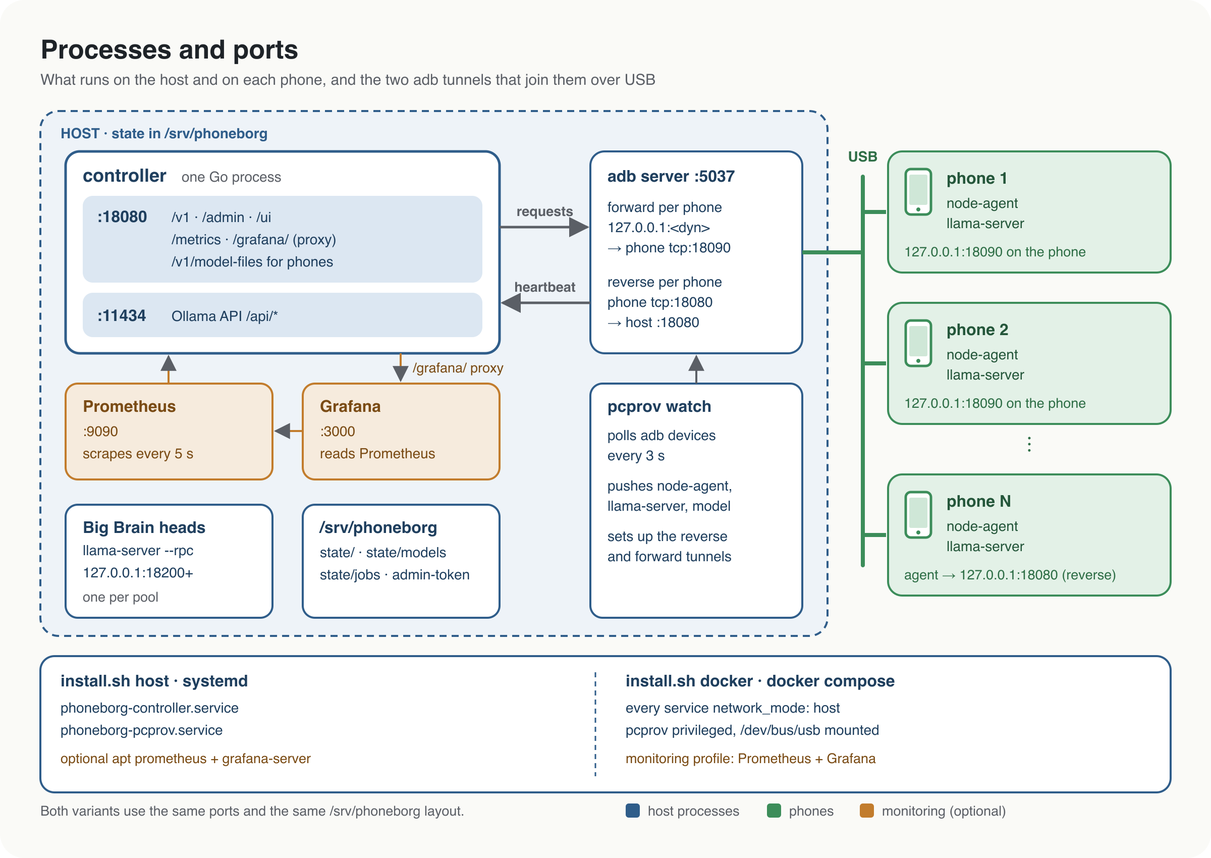
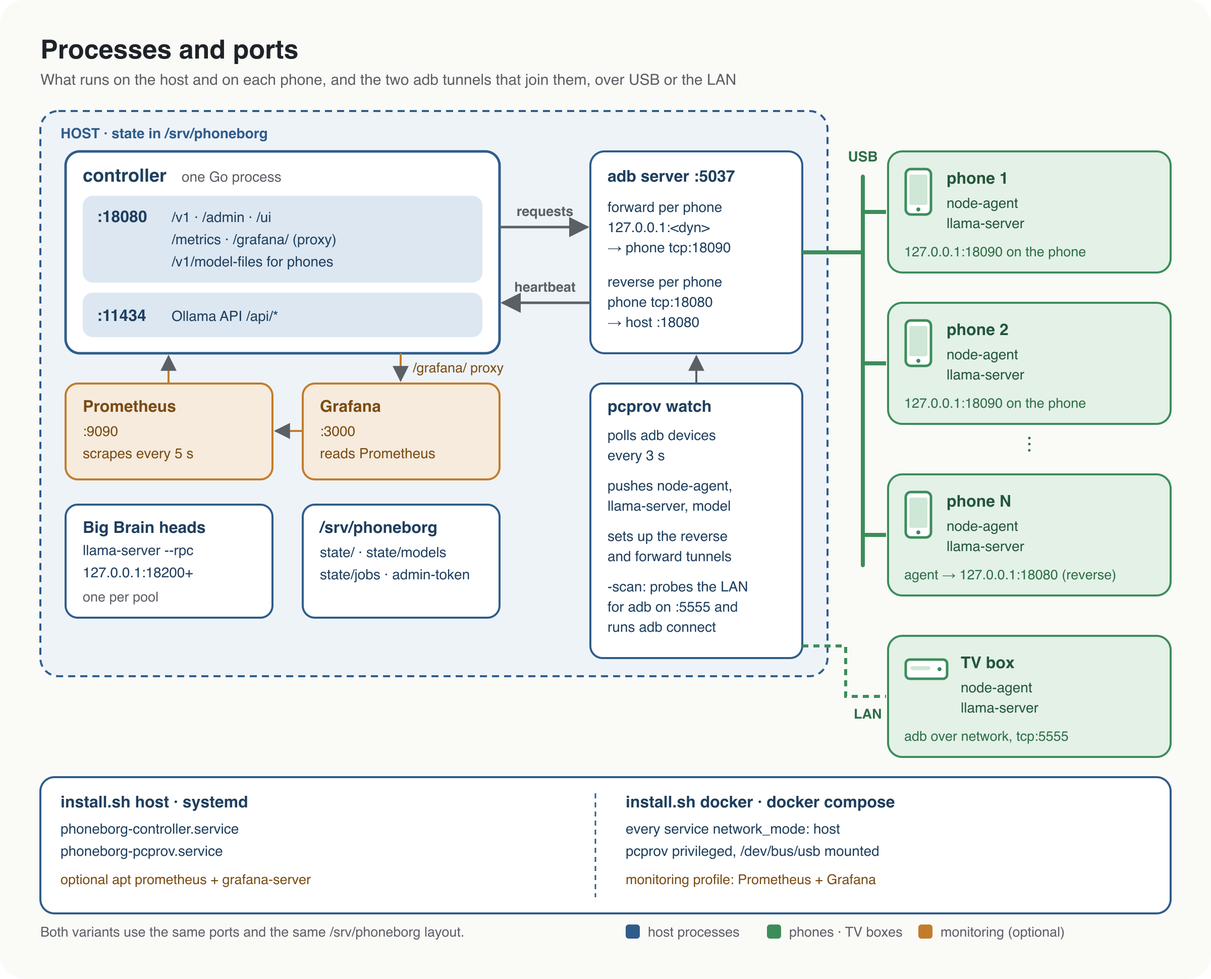
Show TV boxes across the docs and diagrams
The collective now assimilates Android TV boxes over network adb, so the
docs no longer describe the fleet as USB phones only: README tagline and
overview, quick start, install, operations, the pbctl guide (new "Add an
Android TV box" task), concepts, architecture and real phones. The
banner, the overview and the host topology diagrams draw a TV box on a
network adb link, and the banner keeps a kitchen appliance under scan.

Claude-Session: https://claude.ai/code/session_01QJ5f2HKXepcrZ86WRP4Xc4

diff --git a/docs/OPERATIONS.md b/docs/OPERATIONS.md
@@ -64,7 +64,7 @@ To add phones, see [REAL_PHONES.md](REAL_PHONES.md); for emulated phones,
 
 *Start the controller, connect phones and decide who may use the gateway.*
 
-[![Host topology: the controller on :18080 serves /v1, /admin, /ui, /metrics and /grafana/, plus :11434 for the Ollama API; the adb server on :5037 keeps a forward per phone to tcp:18090 and a reverse to :18080; pcprov watch, Prometheus :9090, Grafana :3000 and Big Brain heads on 127.0.0.1:18200+ run next to it, with state in /srv/phoneborg; each phone runs node-agent and llama-server; systemd and docker variants](../assets/diagrams/host-topology.png)](../assets/diagrams/src/host-topology.svg)
+[![Host topology: the controller on :18080 serves /v1, /admin, /ui, /metrics and /grafana/, plus :11434 for the Ollama API; the adb server on :5037 keeps a forward per phone to tcp:18090 and a reverse to :18080; pcprov watch (USB polling plus -scan of the LAN for adb on :5555), Prometheus :9090, Grafana :3000 and Big Brain heads on 127.0.0.1:18200+ run next to it, with state in /srv/phoneborg; each phone, and each TV box reached over the LAN via network adb on tcp:5555, runs node-agent and llama-server; systemd and docker variants](../assets/diagrams/host-topology.png)](../assets/diagrams/src/host-topology.svg)
 
 ## Endpoints
 
@@ -175,7 +175,7 @@ an explicit retry resets it. Only one `pcprov watch`/`provision` may drive a
 given adb server at a time; a second instance exits naming the first one's
 PID.
 
-**Devices** — USB devices pcprov sees, with their provisioning state.
+**Devices** — USB devices and network-adb TV boxes pcprov sees, with their provisioning state.
 
 ![Devices: USB devices seen by pcprov and their provisioning state.](images/panel-devices.png)
 
@@ -1331,9 +1331,11 @@ not skew the numbers) and its model is forced with a benchmark override
 done, or the run is cancelled, the override goes and the phone gets its
 placement and drain state back; a controller restart drops a running run
 (marked `cancelled`) and leaves the phones normal. One run at a time. A
-model whose resident size exceeds the phone's RAM budget, or whose class
-does not fit, is not tried. Runs are stored in `<state-dir>/mmb/`. Expect
-minutes per model: the first load downloads the model to the phone.
+model whose resident size exceeds the node's memory budget is not tried;
+only a node that has not reported a budget yet is checked by class. A TV box
+on network adb is benchmarked the same way (`pbctl mmb run nodes=shield`).
+Runs are stored in `<state-dir>/mmb/`. Expect minutes per model: the first
+load downloads the model to the phone.
 
 ---
 
@@ -1353,7 +1355,7 @@ use it on localhost or a trusted network.
 |---|---|
 | Overview | Nodes by state; ready, drained and hot nodes; requests/s and tokens/s (last 30 s, computed in the browser); errors; models served; placement warnings; a **Virtual models** card listing `/v1/models` by kind (`auto`, `pool/<name>` with eligible node counts, `node/<alias>` with served model and readiness), each with a copy button for its `phoneborg/<id>` reference. |
 | Nodes | Every node with device, class/tier, state (DRAINED and HOT badges), model and build, threads, context, measured tok/s, RAM, temperature, battery, in-flight requests, pinned sessions and last heartbeat. Aliases are shown in place of ids. **Set alias**/**Edit alias**; drain, undrain and forget (with confirmation). Select a node for its inventory and runtime details. |
-| Devices | USB devices `pcprov watch` sees over adb, including ones that are not (yet) nodes: status badges (`new`, `waiting-authorization`, `provisioning` with step, `provisioned`, `failed` with error and hint, `gone`), the node it became (if any), and which host reported it (with a "not reporting" badge once that pcprov has gone quiet). An **auto-provision** toggle and per-device **Provision**/**Retry** buttons (ADR-019). Empty until a `pcprov watch` reports (see [USB device detection and provisioning](#usb-device-detection-and-provisioning)). |
+| Devices | USB devices and network-adb TV boxes (serial `<ip>:5555`) `pcprov watch` sees over adb, including ones that are not (yet) nodes: status badges (`new`, `waiting-authorization`, `provisioning` with step, `provisioned`, `failed` with error and hint, `gone`), the node it became (if any), and which host reported it (with a "not reporting" badge once that pcprov has gone quiet). An **auto-provision** toggle and per-device **Provision**/**Retry** buttons (ADR-019). Empty until a `pcprov watch` reports (see [USB device detection and provisioning](#usb-device-detection-and-provisioning)). |
 | Models | The catalog: download status, size, estimated RAM, fitting classes, tags. Add from `https://…`, `hf://owner/repo/file.gguf` or `file:///path`; edit tags, recommended classes/tiers and the default flag; delete (the reason is shown if refused). |
 | Placement | Device classes and tiers; policies per model (pin, replicas, or percent with a live node count; optional classes and min tok/s); the default model. **Preview** shows which nodes would change, with RAM estimates, predicted tok/s and warnings; **Apply** is enabled only after a preview of the current edits. The plan table shows current and target model and download progress. |
 | Pools | Pools routed as `pool/<name>`, each with a status badge (ready · N nodes, no ready node with the reason, disabled) and **Enable/Disable**: description, routing (`spread`/`affinity`), filters and a members table with eligibility and reason. Add, edit, delete; **Prewarm** sends an optional system prompt to every eligible node and shows per-node results. |
@@ -1728,12 +1730,12 @@ bin/pbctl nodes
 
 | Command | What |
 |---|---|
-| `pbctl nodes` | nodes: `KIND` (`phone` or `external`), state (with `DRAINED`/`HOT`), class/tier (e.g. `m/t2`), runtime, `TOK/S` (self-test), in-flight. `-json` prints `/admin/nodes` (phones only) |
+| `pbctl nodes` | nodes: `KIND` (`phone` or `external`; an Android TV box also shows as `phone`), state (with `DRAINED`/`HOT`), class/tier (e.g. `m/t2`), runtime, `TOK/S` (self-test), in-flight. `-json` prints `/admin/nodes` (phones only) |
 | `pbctl nodes alias <id> <alias>` | set an alias, addressed as `node/<alias>`; `-` clears |
 | `pbctl drain <id>` | no new requests; running ones finish (`ext:<name>` for an external node) |
 | `pbctl undrain <id>` | back into rotation |
 | `pbctl forget <id>` | remove a node (it re-registers if still running) |
-| `pbctl devices` | USB devices `pcprov watch` reports: adb state, status (with step/error/hint), linked node, reporting host (ADR-019) |
+| `pbctl devices` | USB devices and network-adb TV boxes (serial `<ip>:5555`) `pcprov watch` reports: adb state, status (with step/error/hint), linked node, reporting host (ADR-019) |
 | `pbctl devices auto on\|off` | turn automatic provisioning of newly detected devices on or off |
 | `pbctl devices provision <serial>` | request a one-shot provision/retry for one device |
 

diff --git a/docs/PBCTL.md b/docs/PBCTL.md
@@ -14,6 +14,7 @@ the same one the web panel uses. What each feature does is explained in
 - [Daily cheat sheet](#daily-cheat-sheet)
 - [Guides](#guides)
   - [Check the cluster and name the phones](#check-the-cluster-and-name-the-phones)
+  - [Add an Android TV box](#add-an-android-tv-box)
   - [Add a model and put it on phones](#add-a-model-and-put-it-on-phones)
   - [A pool for parallel agents](#a-pool-for-parallel-agents)
   - [One answer from many phones, and long jobs](#one-answer-from-many-phones-and-long-jobs)
@@ -69,7 +70,7 @@ Global flags: `-json` (raw JSON, for scripts and `jq`), `-url URL`,
 | Task | Command |
 |---|---|
 | Is the collective healthy? | `pbctl nodes` |
-| Phones waiting to be assimilated (USB, not yet authorized, failed) | `pbctl devices` |
+| Phones and TV boxes waiting to be assimilated (USB or network adb, not yet authorized, failed) | `pbctl devices` |
 | What can clients call? | `pbctl served` |
 | Usage and cluster summary | `pbctl stats` |
 | Take a phone out for maintenance | `pbctl drain <id>` … `pbctl undrain <id>` |
@@ -88,7 +89,7 @@ it worked. Aliases like `pixel` or `mi8` are examples: use your own.
 
 ```sh
 pbctl nodes                         # every phone: STATE should be ACTIVE, RUNTIME ready
-pbctl devices                       # a phone missing above? see if it waits for "Allow"
+pbctl devices                       # a phone missing above? see if it waits for "Allow" (a TV box: "Allow network debugging")
 pbctl nodes alias <pixel-id> pixel   # <id> is the NODE column of pbctl nodes
 pbctl nodes alias <mi8-id> mi8       # from now on: node/pixel, node/mi8
 ```
@@ -97,6 +98,37 @@ pbctl nodes alias <mi8-id> mi8       # from now on: node/pixel, node/mi8
 `curl -s 127.0.0.1:18080/v1/models | jq '.data[].id'` lists `node/pixel`.
 A phone stuck in `BENCHMARKING` for more than a minute: see
 [REAL_PHONES.md](REAL_PHONES.md#troubleshooting).
+
+### Add an Android TV box
+
+A TV box has no USB device port, so it joins over network adb. On the box,
+turn on developer options and network debugging (the menu names vary by
+box), and keep it on the boxes' own VLAN. Then, on the host that runs
+`pcprov watch`, scan that network: add `-scan` to the `pcprov watch` that
+already runs, or start one with it:
+
+```sh
+pcprov watch -model models/qwen2.5-0.5b-instruct-q4_k_m.gguf \
+  -scan 192.168.50.0/24 \
+  -controller-url http://127.0.0.1:18080 -admin-token-file admin-token
+```
+
+Every `-scan-interval` (2 min) pcprov probes the range and connects to boxes
+with adb open. The box asks "Allow network debugging": accept it with the
+remote. Then:
+
+```sh
+pbctl devices                              # the box as <ip>:5555: unauthorized, then provisioning
+pbctl nodes                                # ACTIVE once provisioned (about 30 s on a Shield)
+pbctl nodes alias <id> shield              # <id> is the NODE column, not the serial
+pbctl mmb run nodes=shield                 # then: pbctl mmb show <id>
+```
+
+**Check:** `pbctl nodes` shows the `shield` alias, and `pbctl mmb show <id>`
+lists the models that fit its memory. Network adb is unencrypted and any
+host in the scanned range with adb open gets connected, so keep the boxes on
+their own VLAN. Details, and the boxes' measured numbers:
+[TV boxes: network discovery](TVBOXES.md#network-discovery).
 
 ### Add a model and put it on phones
 
@@ -225,12 +257,12 @@ Every command, grouped as in `pbctl -h`.
 
 | Command | What |
 |---|---|
-| `pbctl nodes` | nodes, phones and external: state, drain, runtime, model, tok/s, in-flight, last seen |
+| `pbctl nodes` | nodes, phones, TV boxes and external: state, drain, runtime, model, tok/s, in-flight, last seen |
 | `pbctl nodes alias <id> <alias>` | name a node, addressed as `node/<alias>` (`-` clears) |
 | `pbctl drain <id>` | no new requests to the node; requests already running finish |
 | `pbctl undrain <id>` | put a drained node back into rotation |
 | `pbctl forget <id>` | remove a node (it re-registers on its next heartbeat if alive) |
-| `pbctl devices` | USB devices pcprov sees: not yet authorized, provisioning, failed |
+| `pbctl devices` | USB devices and network-adb TV boxes (`<ip>:5555`) pcprov sees: not yet authorized, provisioning, failed |
 | `pbctl devices auto on\|off` | automatic provisioning of new devices on or off |
 | `pbctl devices provision <serial>` | one-shot "provision now" / "retry" for one device |
 | `pbctl classes` | device classes (by RAM) and performance tiers (by GB/s) with node counts |

diff --git a/README.md b/README.md
@@ -1,5 +1,5 @@
 <p align="center">
-  <img src="assets/diagrams/wordmark.png" alt="PhoneBorg banner: 'Resistance is futile. Your Android will be assimilated.' Four phones with the collective's grid on their screens and a fifth still being assimilated hang on a USB bus into a cube labelled the collective: host, one endpoint" width="820">
+  <img src="assets/diagrams/wordmark.png" alt="PhoneBorg banner: 'Resistance is futile. Your Android will be assimilated.' Four phones with the collective's grid on their screens and a fifth still being assimilated hang on a USB bus into a cube labelled the collective: host, one endpoint. A TV box joins the cube over a dashed 'network adb' line, and a faint kitchen appliance in the far corner is marked 'scanning…'" width="820">
 </p>
 
 <p align="center">
@@ -14,22 +14,23 @@
   <img src="assets/demo.gif" alt="Terminal demo: pbctl nodes lists five ACTIVE phones with their models and tok/s, a streaming chat completion is answered by one phone, and pbctl pools lists spread, affinity, Super Borg and Big Brain pools" width="820">
 </p>
 
-**Turn a drawer full of old Android phones into an AI inference cluster.**
+**Turn a drawer full of old Android phones and TV boxes into an AI inference cluster.**
 
 > *We are PhoneBorg. Your phones will be added to the collective. Their
 > tokens will be added to our own.*
 
 ## Overview
 
-Plug phones into a Linux or macOS host over USB. PhoneBorg installs a small
-node agent on each phone over adb; the phone benchmarks itself, joins the
+Plug phones into a Linux or macOS host over USB. Android TV boxes, which have
+no USB device port, join over network adb ([A new era: TV boxes](#a-new-era-tv-boxes)).
+PhoneBorg installs a small node agent on each phone over adb; the phone benchmarks itself, joins the
 cluster and serves a GGUF model with
 [llama.cpp](https://github.com/ggml-org/llama.cpp). Clients talk to **one
 OpenAI-compatible endpoint**. The controller decides which phone serves which
 model, routes each request to a phone, fails over when one freezes, and
 exports everything to Prometheus and Grafana.
 
-[![PhoneBorg at a glance: API clients and operators call the controller on :18080 (and Ollama apps on :11434). The controller is one Go process with the gateway, registry, catalog and placement, admin API and web panel, Big Brain head and /metrics. pcprov watches USB and provisions phones through the adb server. Requests reach each phone's llama-server through adb forward to :18090; phones register, heartbeat and download models through adb reverse :18080. Prometheus scrapes /metrics every 5 s and Grafana shows three dashboards.](assets/diagrams/overview-pipeline.png)](assets/diagrams/src/overview-pipeline.svg)
+[![PhoneBorg at a glance: API clients and operators call the controller on :18080 (and Ollama apps on :11434). The controller is one Go process with the gateway, registry, catalog and placement, admin API and web panel, Big Brain head and /metrics. pcprov watches USB hot-plug and scans the LAN (pcprov -scan), and provisions phones and TV boxes through the adb server. Requests reach each phone's llama-server through adb forward to :18090; phones register, heartbeat and download models through adb reverse :18080. TV boxes join over network adb on LAN :5555. Prometheus scrapes /metrics every 5 s and Grafana shows three dashboards.](assets/diagrams/overview-pipeline.png)](assets/diagrams/src/overview-pipeline.svg)
 
 > **Status: proof of concept.** It runs end to end on a production cluster of
 > five phones and on emulated phones. APIs, metrics and file layout will
@@ -43,6 +44,7 @@ exports everything to Prometheus and Grafana.
 - [Pools and Super Borg](#pools-and-super-borg)
 - [Jobs and agents](#jobs-and-agents)
 - [Big Brain](#big-brain)
+- [A new era: TV boxes](#a-new-era-tv-boxes)
 - [Model benchmark (MMB)](#model-benchmark-mmb)
 - [Platform features](#platform-features)
 - [Quick start](#quick-start)
@@ -241,6 +243,8 @@ llama.cpp and a first model over USB. Details:
 [INSTALL.md](docs/INSTALL.md#installer). Step by step instead:
 [QUICKSTART.md](docs/QUICKSTART.md) (a test cluster with one or two phones)
 or [INSTALL.md](docs/INSTALL.md) (a permanent install as services).
+A TV box needs no USB: enable network debugging on it and see
+[docs/TVBOXES.md](docs/TVBOXES.md#network-discovery).
 
 Phones: ARM64 Android with 4 GB RAM or more; which phones and models fit:
 [REAL_PHONES.md](docs/REAL_PHONES.md). **Emulated phones** with Prometheus

diff --git a/docs/ARCHITECTURE.md b/docs/ARCHITECTURE.md
@@ -57,6 +57,11 @@ Everything the phones do goes over the USB cable: the agent talks to
 and the controller reaches each phone's llama-server through an `adb forward`
 on the host (ADR-003, ADR-006).
 
+Android TV boxes without a USB device port are nodes too, reached over network
+adb instead of the cable: the same agent and the same `adb reverse` /
+`adb forward` links run over a TCP connection (ADR-035, see
+[Provisioning over adb](#provisioning-over-adb)).
+
 ## Components
 
 ### Controller (`controller/`, binary `controller`)
@@ -142,6 +147,11 @@ sequenceDiagram
 loose cable, a hot phone) while it stays listed. `pcprov watch` restores them
 on the same host port the agent advertises; `pcprov heal -serial S` does it
 once.
+
+TV boxes on network adb (`<ip>:5555`, found by `pcprov watch -scan`, ADR-035)
+get the same steps. They are not on the USB hot-plug path, so the scanner
+connects them and the watch loop then provisions them; the box asks for
+"Allow network debugging" once, and its adb key must be accepted there.
 
 ## Node lifecycle
 
@@ -369,8 +379,8 @@ on the `controller-state` volume.
 | Port | Where | What |
 |---|---|---|
 | 18080 | host | controller: gateway `/v1`, admin `/admin`, `/ui/`, `/status`, `/metrics`, `/healthz` (`-listen`) |
-| 18080 | phone | `adb reverse` to the controller (`pcprov -controller-port`) |
-| 18090 | phone, 127.0.0.1 only | llama-server (`pcprov -serve-port`, agent `-serve-port`) |
+| 18080 | phone or TV box | `adb reverse` to the controller (`pcprov -controller-port`) |
+| 18090 | phone or TV box, 127.0.0.1 only | llama-server (`pcprov -serve-port`, agent `-serve-port`) |
 | ephemeral | host | `adb forward` to each phone's 18090, chosen by adb and reused on re-provisioning; the controller reaches it on `-backend-host` (default 127.0.0.1, `host.docker.internal` in compose) |
 | 18091 | phone | `tests/e2e/llm_smoke.sh` test server, so it does not disturb the agent |
 | 9090 | host | Prometheus (compose) |
@@ -470,12 +480,14 @@ for them with `read_doc`. Rationale: ADR-021.
 ## Production deployment
 
 The reference deployment is one Linux VM next to the phones; the phones
-reach it only over USB. [INSTALL.md](INSTALL.md) installs it step by step
-with the templates in `deploy/host/`.
+reach it only over USB, and TV boxes only over network adb on their own VLAN
+(ADR-035). [INSTALL.md](INSTALL.md) installs it step by step with the
+templates in `deploy/host/`.
 
 ```mermaid
 flowchart TB
   phones["phones"] -->|"USB"| hv["hypervisor<br>USB passthrough by host port, not by vendor:product id<br>(two phones of one vendor share 18d1:4ee7 and get mixed up)"]
+  boxes["TV boxes"] -->|"network adb, own VLAN"| pc
   hv --> pc
   subgraph vm["Linux VM (Debian): adb, a user with the phones' adb keys"]
     pc["phoneborg-pcprov.service (Requires= the controller)<br>pcprov watch -model state/models/qwen2.5-0.5b-….gguf<br>-agent-args '-ctx-size 16384' -admin-token-file …"]

diff --git a/docs/README.md b/docs/README.md
@@ -12,7 +12,7 @@ Start with the [project README](../README.md) for the pitch and quick start.
 | [REAL_PHONES.md](REAL_PHONES.md) | choosing phones, preparing them, adb checks, provisioning, verification, slim, model storage, files and logs on the phone, removal, phone-side troubleshooting, which model suits which phone |
 | [OPERATIONS.md](OPERATIONS.md) | controller flags, sending requests, web panel, full `pbctl` reference, models and placement, pools and aliases, API keys, draining, gateway settings, semantic router, usage, OpenCode bridge, Grafana, controller-side troubleshooting |
 | [PBCTL.md](PBCTL.md) | every `pbctl` command grouped by task, with examples and a daily cheat sheet |
-| [TVBOXES.md](TVBOXES.md) | working note: Android TV boxes as nodes, what to buy, the code changes needed (not yet tested) |
+| [TVBOXES.md](TVBOXES.md) | Android TV boxes as nodes over network adb: `pcprov watch -scan`, the measured NVIDIA Shield TV, what to buy, the code changes |
 | [BENCHMARKS.md](BENCHMARKS.md) | what to expect: tok/s per model, threads, endurance, failover, prompt cache, parallel agents, bandwidth tiers, the four-phone multi-model benchmark, Super Borg and job timings |
 
 ## Developers: architecture, decisions, tests
@@ -20,7 +20,7 @@ Start with the [project README](../README.md) for the pitch and quick start.
 | Document | Covers |
 |---|---|
 | [ARCHITECTURE.md](ARCHITECTURE.md) | components, provisioning, node lifecycle, request routing, model placement and switching, persistence, ports, security model, limitations |
-| [DECISIONS.md](DECISIONS.md) | ADR-001..033 with an index and dated updates |
+| [DECISIONS.md](DECISIONS.md) | ADR-001..035 with an index and dated updates |
 | [DEV_EMULATION.md](DEV_EMULATION.md) | colima + redroid setup, `make test`, `make e2e`, `make llm-smoke`, load generator |
 
 ## I want to…
@@ -34,6 +34,7 @@ Start with the [project README](../README.md) for the pitch and quick start.
 | compare models and phones on real numbers | [CONCEPTS.md](CONCEPTS.md#7-benchmarks-to-choose-models-and-phones), [BENCHMARKS.md](BENCHMARKS.md#multi-model-benchmark-four-phones) |
 | plug in a desktop or API model as orchestrator | [OPERATIONS.md](OPERATIONS.md#external-orchestrators) |
 | add a real phone | [REAL_PHONES.md](REAL_PHONES.md#1-prepare-the-phone-once-per-phone) |
+| add an Android TV box over network adb | [QUICKSTART.md](QUICKSTART.md#a-tv-box-instead-of-a-phone), [TVBOXES.md](TVBOXES.md#network-discovery) |
 | try it without phones | [DEV_EMULATION.md](DEV_EMULATION.md#run) |
 | pick a model for my phones | [REAL_PHONES.md](REAL_PHONES.md#choosing-a-model-per-phone-class) |
 | send a request / use the OpenAI SDK | [OPERATIONS.md](OPERATIONS.md#sending-requests) |

diff --git a/docs/QUICKSTART.md b/docs/QUICKSTART.md
@@ -119,6 +119,28 @@ Keep the phone awake on USB (vendor ROMs may sleep with the screen off):
 adb shell svc power stayon usb
 ```
 
+### A TV box instead of a phone
+
+A TV box has no USB device port, so it joins over the network. These steps
+replace steps 2 and 4; steps 0, 1 and 3 are the same as for a phone:
+
+1. On the box, open **Settings → Device Preferences → About** (the menu
+   may differ) and tap **Build** 7 times to unlock Developer options.
+2. Settings → Developer options → turn on **Network debugging**. Note the
+   box's IP address (Settings → Network).
+3. Run `watch` with `-scan`, giving the box's IP or its subnet:
+
+```sh
+bin/pcprov watch -model models/qwen2.5-0.5b-instruct-q4_k_m.gguf -agent-args "-ctx-size 16384" -scan 192.168.1.50
+```
+
+4. On the TV, accept **Allow network debugging?** with the remote. Within
+   about a minute `bin/pbctl nodes` shows the box as ACTIVE.
+
+Keep boxes on their own VLAN. Network adb is unencrypted, so never let
+port 5555 reach other networks. Details, scan options and measurements:
+[TVBOXES.md](TVBOXES.md#network-discovery).
+
 ## 5. First request
 
 ```sh
@@ -228,7 +250,7 @@ next start.
 
 | Symptom | Fix |
 |---|---|
-| `adb devices` shows `unauthorized` | unlock the phone and accept the prompt; replug |
+| `adb devices` shows `unauthorized` | unlock the phone and accept the prompt; replug. A TV box: accept "Allow network debugging" on the TV |
 | `adb devices` shows `no permissions` (Linux) | you are not in `plugdev` yet: log out and in; after a reboot, `adb kill-server`, then replug |
 | `make llama-all`: `exec format error` | x86-64 host without QEMU: run the `binfmt` command from step 0 |
 | the phone is not listed at all | a charge-only cable or USB debugging off |

diff --git a/docs/REAL_PHONES.md b/docs/REAL_PHONES.md
@@ -331,7 +331,30 @@ are in [OPERATIONS.md](OPERATIONS.md#troubleshooting).
 
 Not supported yet. The phone must stay on the USB cable, because the
 controller reaches it through `adb reverse` and `adb forward`, and the cable
-also powers it. Wi-Fi nodes are on the roadmap.
+also powers it. Wi-Fi nodes are on the roadmap. TV boxes are the exception,
+see [TV boxes](#tv-boxes).
+
+## TV boxes
+
+Android TV boxes are nodes too, with one difference in the link: most have no
+USB device port, so they join over network adb (ADR-035). The steps above
+still apply (ABI or `uname -m`, RAM, preflight checks), with these changes:
+
+- **Connect over the network**, not the cable: `pcprov watch -scan <subnet>`
+  finds the box. Prefer it over `-connect <ip>:5555`: in `watch`,
+  `-connect` limits pcprov to the named serials, so USB phones would no
+  longer be provisioned. Keep the box
+  on its own VLAN; legacy network adb is not encrypted.
+- **Authorize on the TV**: the box asks for "Allow network debugging"; accept
+  it with the remote. Until then it stays `unauthorized`.
+- **Slim knows the TV apps**: `pcprov slim` also disables streaming, games,
+  Live TV and the Assistant; launcher, keyboard, Play services and remote
+  pairing stay, and `pcprov unslim` restores them.
+- **RAM decides the role**: a 3 GB box is a fast small-model worker; 8–16 GB
+  boxes are the Big Brain candidates.
+
+Setup, measurements and the buying notes are in [TVBOXES.md](TVBOXES.md), with
+the network setup in [TVBOXES.md](TVBOXES.md#network-discovery).
 
 ## Choosing a model per phone class
 

diff --git a/docs/CONCEPTS.md b/docs/CONCEPTS.md
@@ -63,6 +63,7 @@ different phones (see [Splitting a fleet](#splitting-a-fleet)).
 | **MCP tools** | `pbctl mcp`: lets an agent (opencode) use the cluster as tools: ask, map tasks in parallel, vote, run and follow jobs. |
 | **MMB** | the multi-model benchmark: loads every model that fits on chosen phones and measures them the same way. |
 | **Big Brain pool** | a pool with routing `bigbrain`: its phones lend their RAM to one catalog model through llama.cpp RPC, and the controller runs it. |
+| **TV box** | an Android TV box on network adb. It is a node like a phone (kind `phone` in `pbctl`), found by `pcprov watch -scan`; see [TVBOXES.md](TVBOXES.md). |
 
 ## 1. A model, `auto` or a phone
 
@@ -232,6 +233,12 @@ fewest phones whose free RAM holds the model, the fastest first; a slow
 phone (the Mi 8) slows every token. **Choose the model:** a
 mixture-of-experts model (Qwen3-30B-A3B) rather than a dense one of the
 same size; a dense 32B or a 2-bit 70B is a demonstration more than a tool.
+
+TV boxes can be Big Brain members too, but the RAM decides it: a Big Brain
+slice is a node's free RAM minus 900 MiB, so a 3 GB box (the NVIDIA Shield TV,
+2017) adds only about 0.7 GB of layers and is worth more as a fast small-model
+worker. Boxes with 8–16 GB are the Big Brain candidates
+([TVBOXES.md](TVBOXES.md#measured-nvidia-shield-tv-2017)).
 
 ## Function calling (tools)
 

diff --git a/docs/INSTALL.md b/docs/INSTALL.md
@@ -240,6 +240,26 @@ Tip: put `export PHONEBORG_ADMIN_TOKEN=$(cat /srv/phoneborg/admin-token)`
 and `export PATH=$PATH:/srv/phoneborg/app/bin` in `~/.profile`, so `pbctl`
 works in every shell.
 
+### Adding TV boxes (optional)
+
+Android TV boxes without a USB device port join over network adb (ADR-035).
+Put them on their own VLAN first: network adb is not encrypted. On each box,
+turn on network debugging. Then add the box subnet to the provisioner's
+`ExecStart` in `/etc/systemd/system/phoneborg-pcprov.service`, right after
+`watch`:
+
+```text
+ExecStart=/srv/phoneborg/app/bin/pcprov watch -scan 192.168.50.0/24 -model ...
+```
+
+`-scan` takes an IP, a CIDR, a range or `IP:port`, and can be repeated. Then
+`sudo systemctl daemon-reload && sudo systemctl restart phoneborg-pcprov`.
+The scan repeats every 2 minutes. When the box shows "Allow network
+debugging", accept it with the remote. The box is then provisioned like a
+phone and listed by `pbctl nodes` as kind `phone`. A box that is also on USB
+appears twice; use one path per box. Details and the measured Shield TV are in
+[TVBOXES.md](TVBOXES.md#network-discovery).
+
 ## 10. The web panel
 
 Open `http://<host>:18080/ui/` from any machine that reaches the host and
